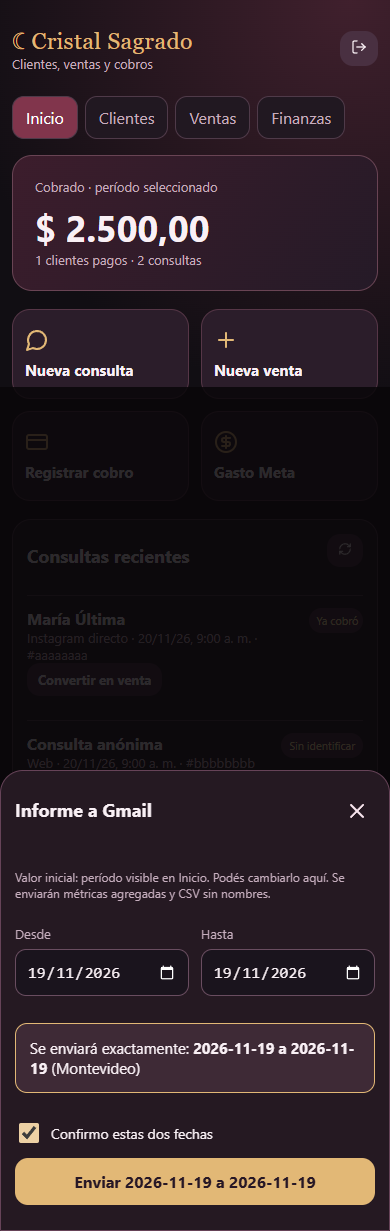
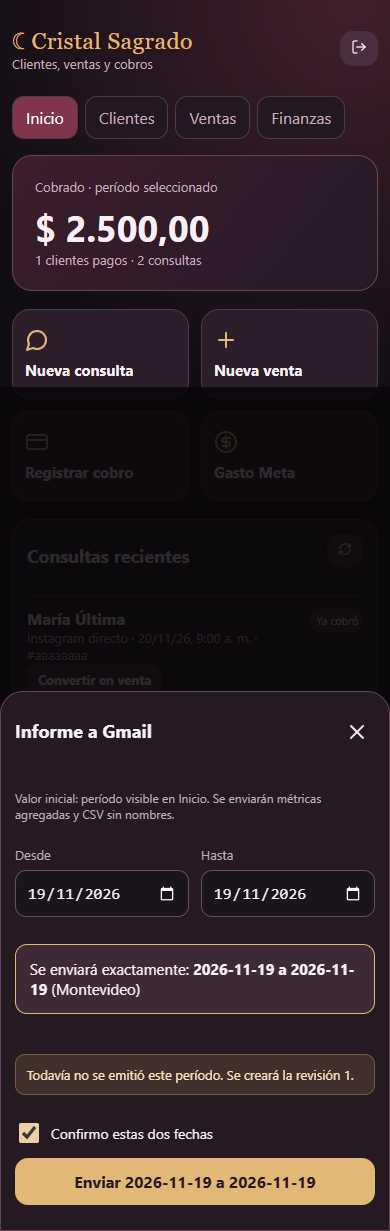
Record report reissue Preview E2E and screenshots

Changed region(s): [[0.0, 0.5556, 1.0, 0.8952]]

diff --git a/e2e/preview.spec.ts b/e2e/preview.spec.ts
@@ -96,11 +96,13 @@ test('390 px: reemisión exige motivo, revisión y confirmación administrativa'
  const id='cccccccc-cccc-4ccc-8ccc-cccccccccccc';
  data.setReportStatus({period:{start:'2026-11-19',end:'2026-11-19'},current:{inquiries:9,newSales:5},previous:{id,revision:2,status:'sent',sentAt:now,hashPrefix:'61088b4780cc',hasSnapshot:true},differences:[{key:'inquiries',before:8,now:9,change:1},{key:'newSales',before:4,now:5,change:1}],history:[{id,revision:2,status:'sent',dispatch_kind:'legacy',trigger_source:'legacy',supersedes_id:null,reissue_reason:null,dispatched_at:now}],canReissue:true});
  await page.goto(preview!);await page.getByRole('button',{name:'Informe',exact:true}).click();
+ await page.locator('input[type=date]').first().fill('2026-11-19');await page.locator('input[type=date]').last().fill('2026-11-19');
  await expect(page.getByText('Diferencias desde esa revisión')).toBeVisible();
  const button=page.getByRole('button',{name:'Reemitir revisión 3'});await expect(button).toBeDisabled();
  await page.getByLabel('Motivo de reemisión administrativa (mínimo 10 caracteres)').fill('Corrección autorizada de datos QA');
  await page.getByRole('checkbox',{name:/Confirmo la reemisión/}).check();
- await expect(button).toBeEnabled();await page.screenshot({path:'docs/screenshots/registro-390-reemision.png',fullPage:true});await button.click();
+ await expect(button).toBeEnabled();await page.screenshot({path:'docs/screenshots/registro-390-reemision.png',fullPage:true});
+ await button.scrollIntoViewIfNeeded();await page.screenshot({path:'docs/screenshots/registro-390-reemision-confirmar.png',fullPage:true});await button.click();
  expect(data.requests.at(-1)).toMatchObject({mode:'reissue',start:'2026-11-19',end:'2026-11-19',expectedDispatchId:id,confirm:true});
 });
 
@@ -108,6 +110,7 @@ test('390 px: operador ve historial pero no puede reemitir',async({page})=>{
  const data=await fixture(page,100),id='dddddddd-dddd-4ddd-8ddd-dddddddddddd';
  data.setReportStatus({period:{start:'2026-11-19',end:'2026-11-19'},current:{inquiries:9,newSales:5},previous:{id,revision:1,status:'sent',sentAt:now,hashPrefix:'abc',hasSnapshot:true},differences:[],history:[{id,revision:1,status:'sent',dispatch_kind:'initial',trigger_source:'manual',supersedes_id:null,dispatched_at:now}],canReissue:false});
  await page.goto(preview!);await page.getByRole('button',{name:'Informe',exact:true}).click();
+ await page.locator('input[type=date]').first().fill('2026-11-19');await page.locator('input[type=date]').last().fill('2026-11-19');
  await expect(page.getByText(/Informe ya emitido/)).toBeVisible();
  await expect(page.getByRole('button',{name:/Reemitir revisión/})).toHaveCount(0);
 });

diff --git a/docs/ISSUE_3_RELEASE_GATE_2026-11-20.md b/docs/ISSUE_3_RELEASE_GATE_2026-11-20.md
@@ -21,6 +21,8 @@ Fecha: 20/11/2026. Rama de trabajo: `feat/neon-migration`; PR #1 en borrador. **
 - Los tests con PostgreSQL local de PGlite y remitente simulado comprueban: carrera manual/cron (`Promise.all`), cambio de 8/4 a 9/5 sin segundo envío, reemisión admin, rechazo de operador y de versión obsoleta, reintento con la misma clave, motivo e historial, resultado ambiguo `pending`, rechazo `failed`, recuperación manual, migración de dos filas heredadas y bloqueo del escritor anterior. La concurrencia se prueba a nivel de solicitudes sobre el mismo motor de prueba; falta un ensayo con dos conexiones PostgreSQL remotas reales. No se llamó a Resend en estos tests.
 - El test de correo simulado comprueba período, etiqueta de revisión, cuatro adjuntos, hash SHA-256 del JSON y clave de idempotencia. E2E de Preview comprueba el formulario a 390 px, diferencias visibles, motivo/confirmación y que un operador no vea el botón de reemisión; la ruta de envío está simulada. El GET de estado usa la membresía de Neon Auth y no se comparte entre organizaciones.
 
+**Resultados del 20/11:** `npm ci` instaló 68 paquetes con 0 vulnerabilidades; `npm run typecheck` pasó; `npm test` pasó **16/16**; `npm run build` pasó. El Preview del commit `906ffd8` (`dpl_2HG9tWqmdspdDyVgP4XQAXwrYG2H`) quedó READY; `/api/health` devolvió 200 con `configured:true` y `/api/reports/status` sin sesión devolvió 401. Playwright pasó **7/7** en Chrome a 390 px contra ese Preview. La prueba de envío usó respuestas simuladas: **0 llamadas reales a Resend y 0 nuevos correos**. Capturas ficticias: [informe inicial](screenshots/registro-390-informe.png), [diferencias y motivo](screenshots/registro-390-reemision.png), [confirmación de reemisión](screenshots/registro-390-reemision-confirmar.png).
+
 ## Checklist definitivo para solicitar GO Production
 
 | Estado | Condición verificable | Intervención manual necesaria |
